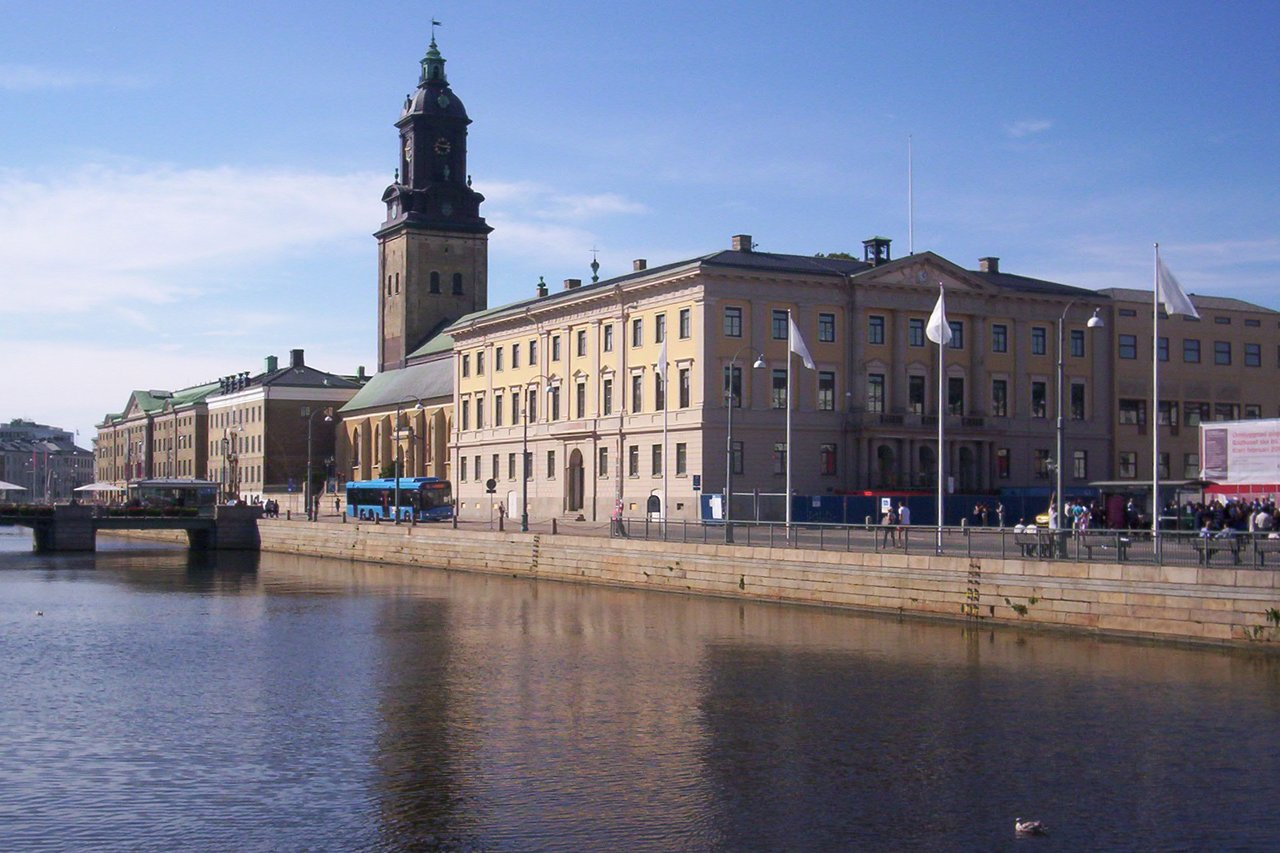
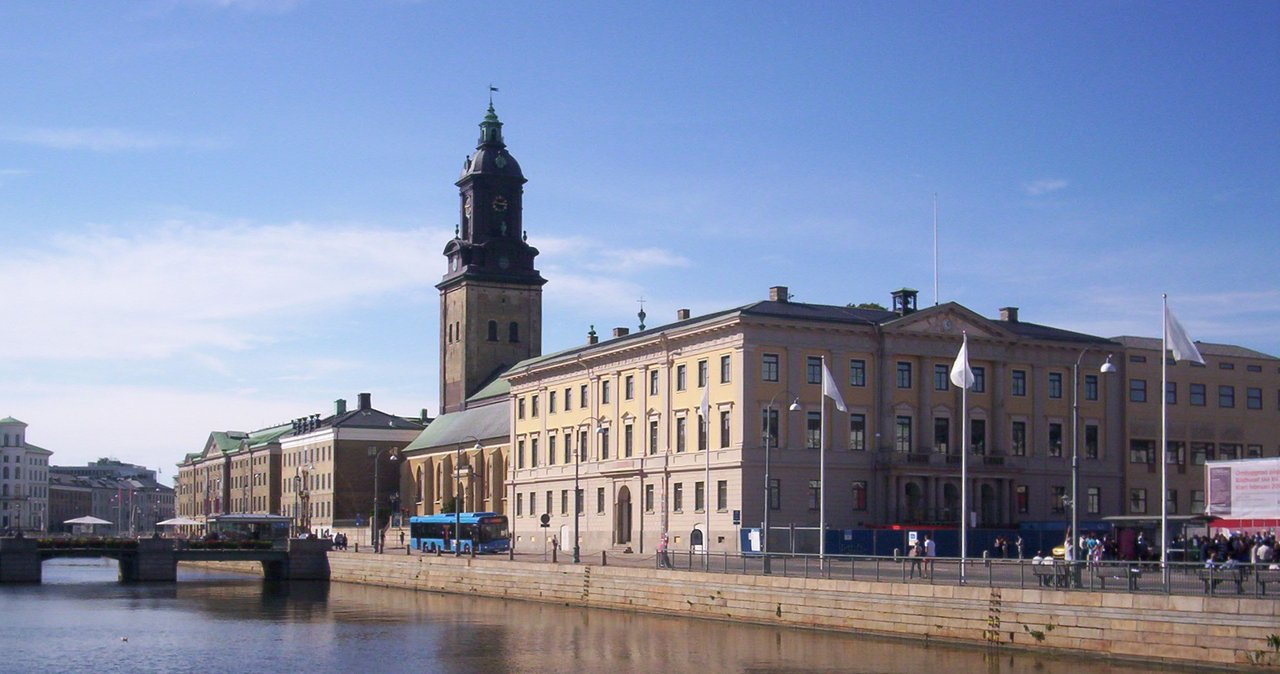
Add files via upload

diff --git a/index.html b/index.html
@@ -42,8 +42,8 @@ tegels:
         {% for stad in site.data.steden %}{% if stad.foto %}
         <div class="hero-slide{% if eerste %} actief{% endif %}" data-sleutel="{{ stad.bestand }}" data-naam="{{ stad.naam }}">
           <div class="hero-foto">
-            <img data-src="{{ stad.foto | relative_url }}" alt="{{ stad.naam }}" decoding="async">
-            {% if eerste %}<noscript><img src="{{ stad.foto | relative_url }}" alt="{{ stad.naam }}"></noscript>{% endif %}
+            <img data-src="{{ stad.herofoto | default: stad.foto | relative_url }}" alt="{{ stad.naam }}" decoding="async">
+            {% if eerste %}<noscript><img src="{{ stad.herofoto | default: stad.foto | relative_url }}" alt="{{ stad.naam }}"></noscript>{% endif %}
             <div class="hero-label">
               <p class="regio-label">{{ stad.regio }}</p>
               <p class="hero-stadnaam">{{ stad.naam }}</p>
